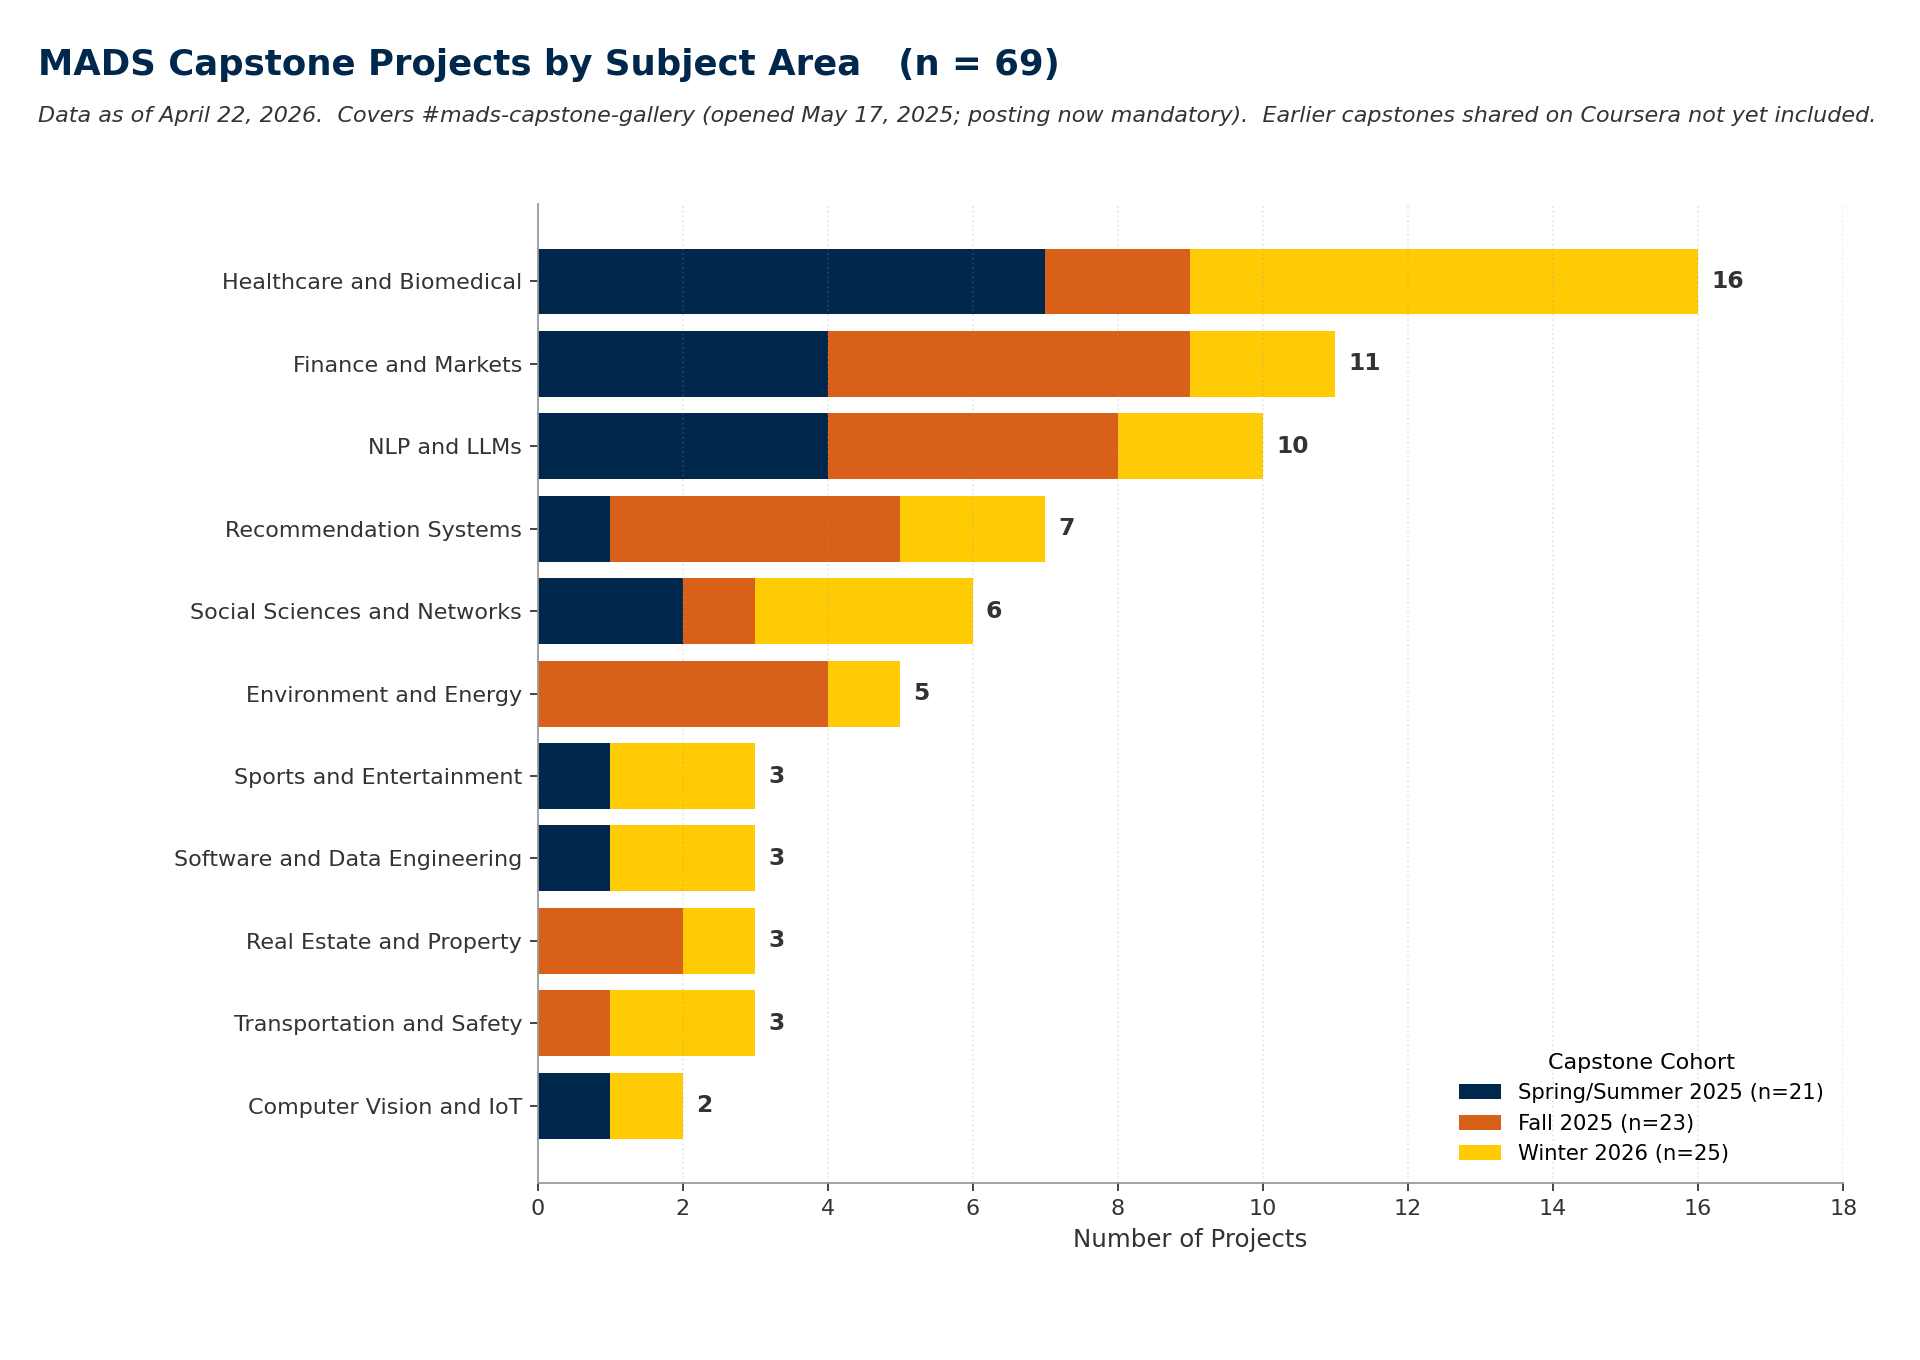
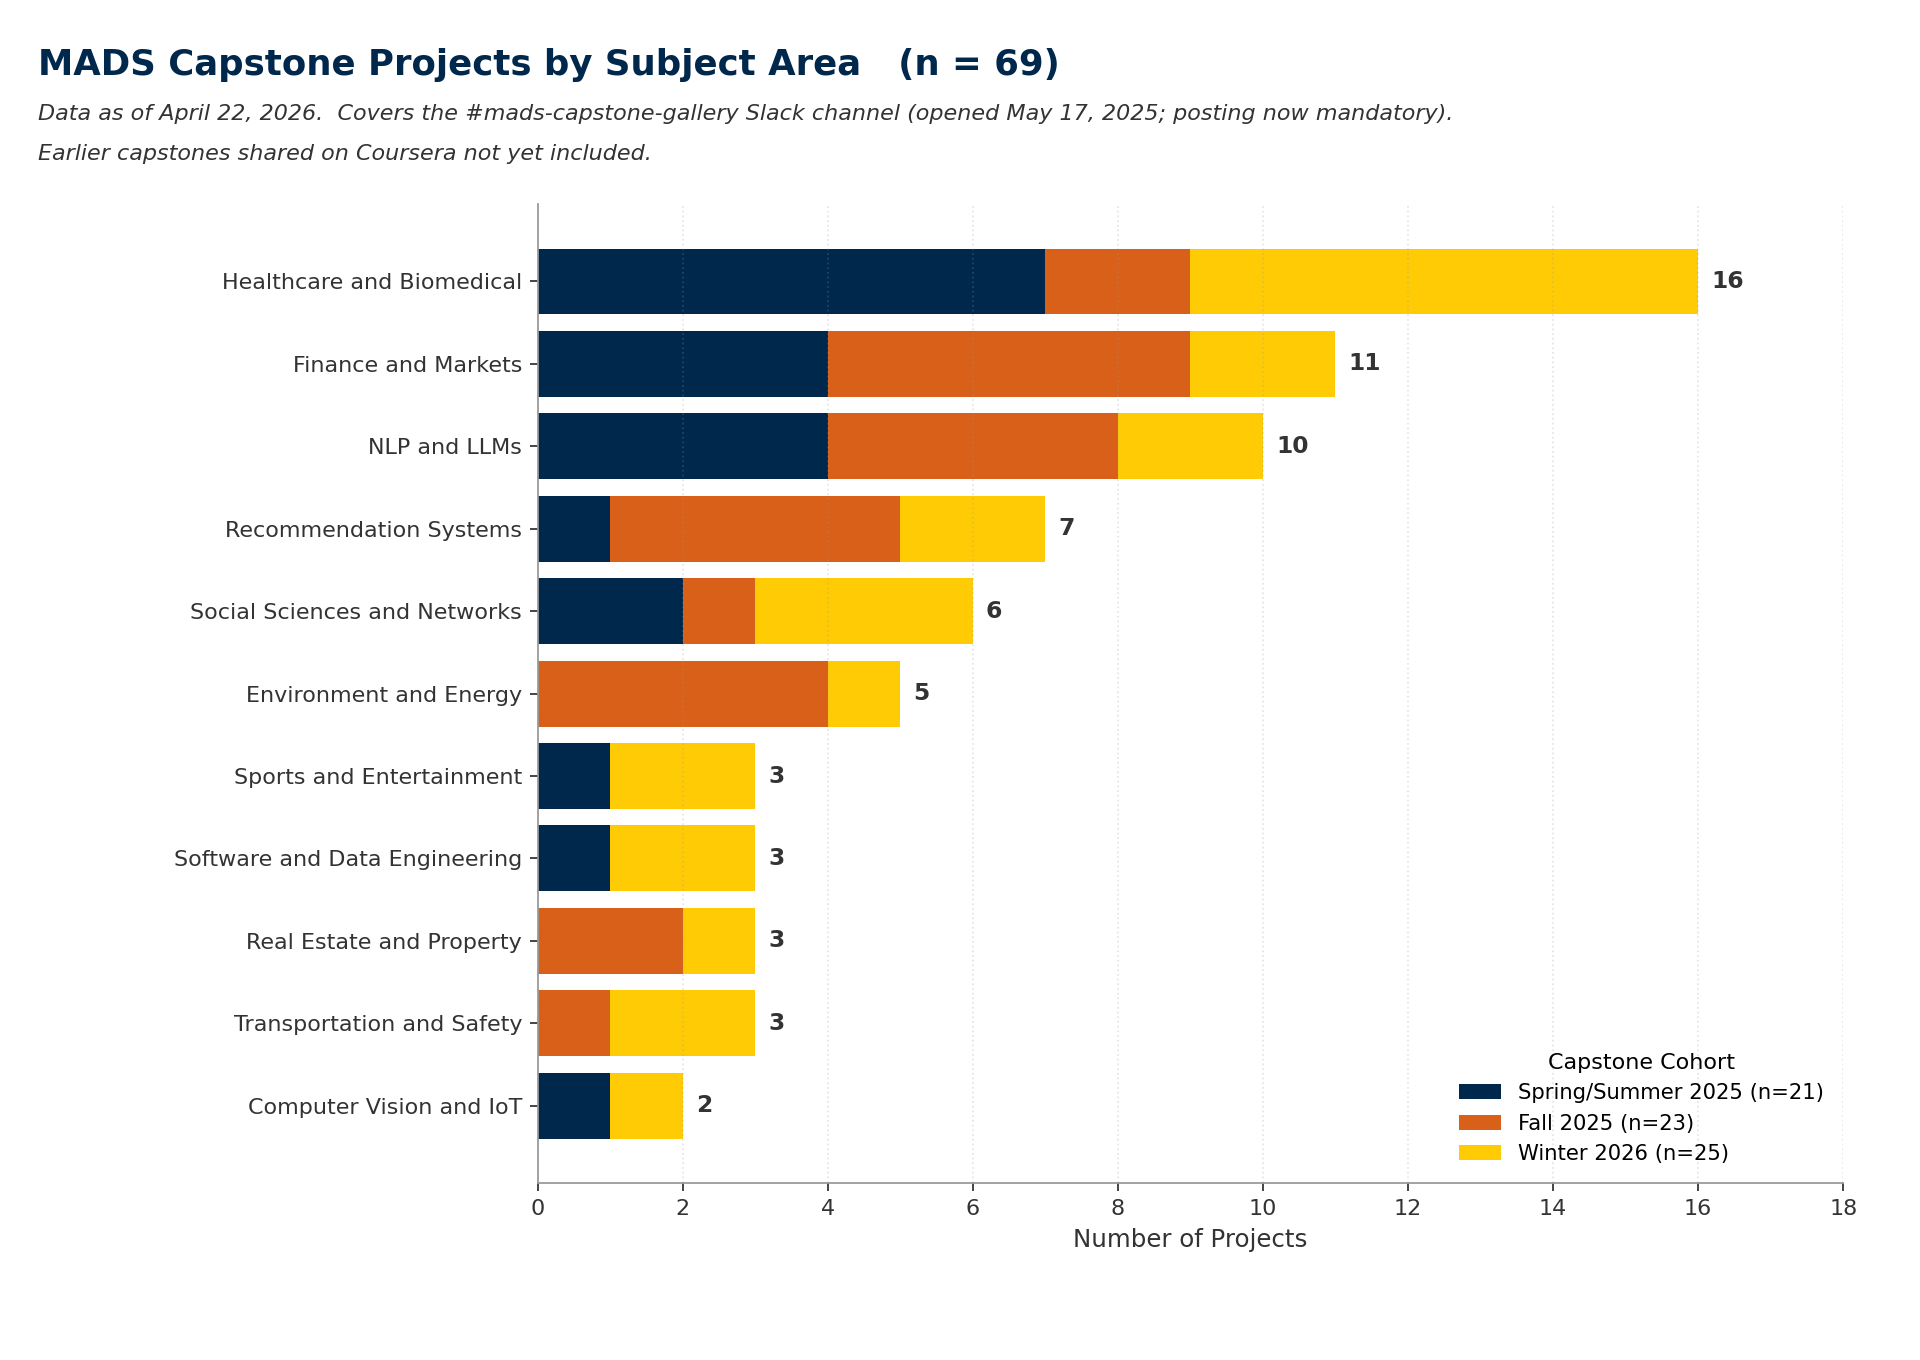
Subtitle: name the Slack channel explicitly; move Coursera caveat to second line

Changed region(s): [[0.0312, 0.0618, 0.9688, 0.1235]]

diff --git a/scripts/make_chart.py b/scripts/make_chart.py
@@ -90,8 +90,11 @@ def make_chart():
              f"MADS Capstone Projects by Subject Area   (n = {grand_total})",
              fontsize=16, fontweight="bold", color=MICH_BLUE)
     today = date.today().strftime("%B %-d, %Y")
-    fig.text(0.02, 0.910,
-             f"Data as of {today}.  Covers #mads-capstone-gallery (opened May 17, 2025; posting now mandatory).  Earlier capstones shared on Coursera not yet included.",
+    fig.text(0.02, 0.912,
+             f"Data as of {today}.  Covers the #mads-capstone-gallery Slack channel (opened May 17, 2025; posting now mandatory).",
+             fontsize=10, color=BODY, style="italic")
+    fig.text(0.02, 0.882,
+             "Earlier capstones shared on Coursera not yet included.",
              fontsize=10, color=BODY, style="italic")
 
     plt.savefig(OUT_PATH, dpi=160, facecolor="white")
